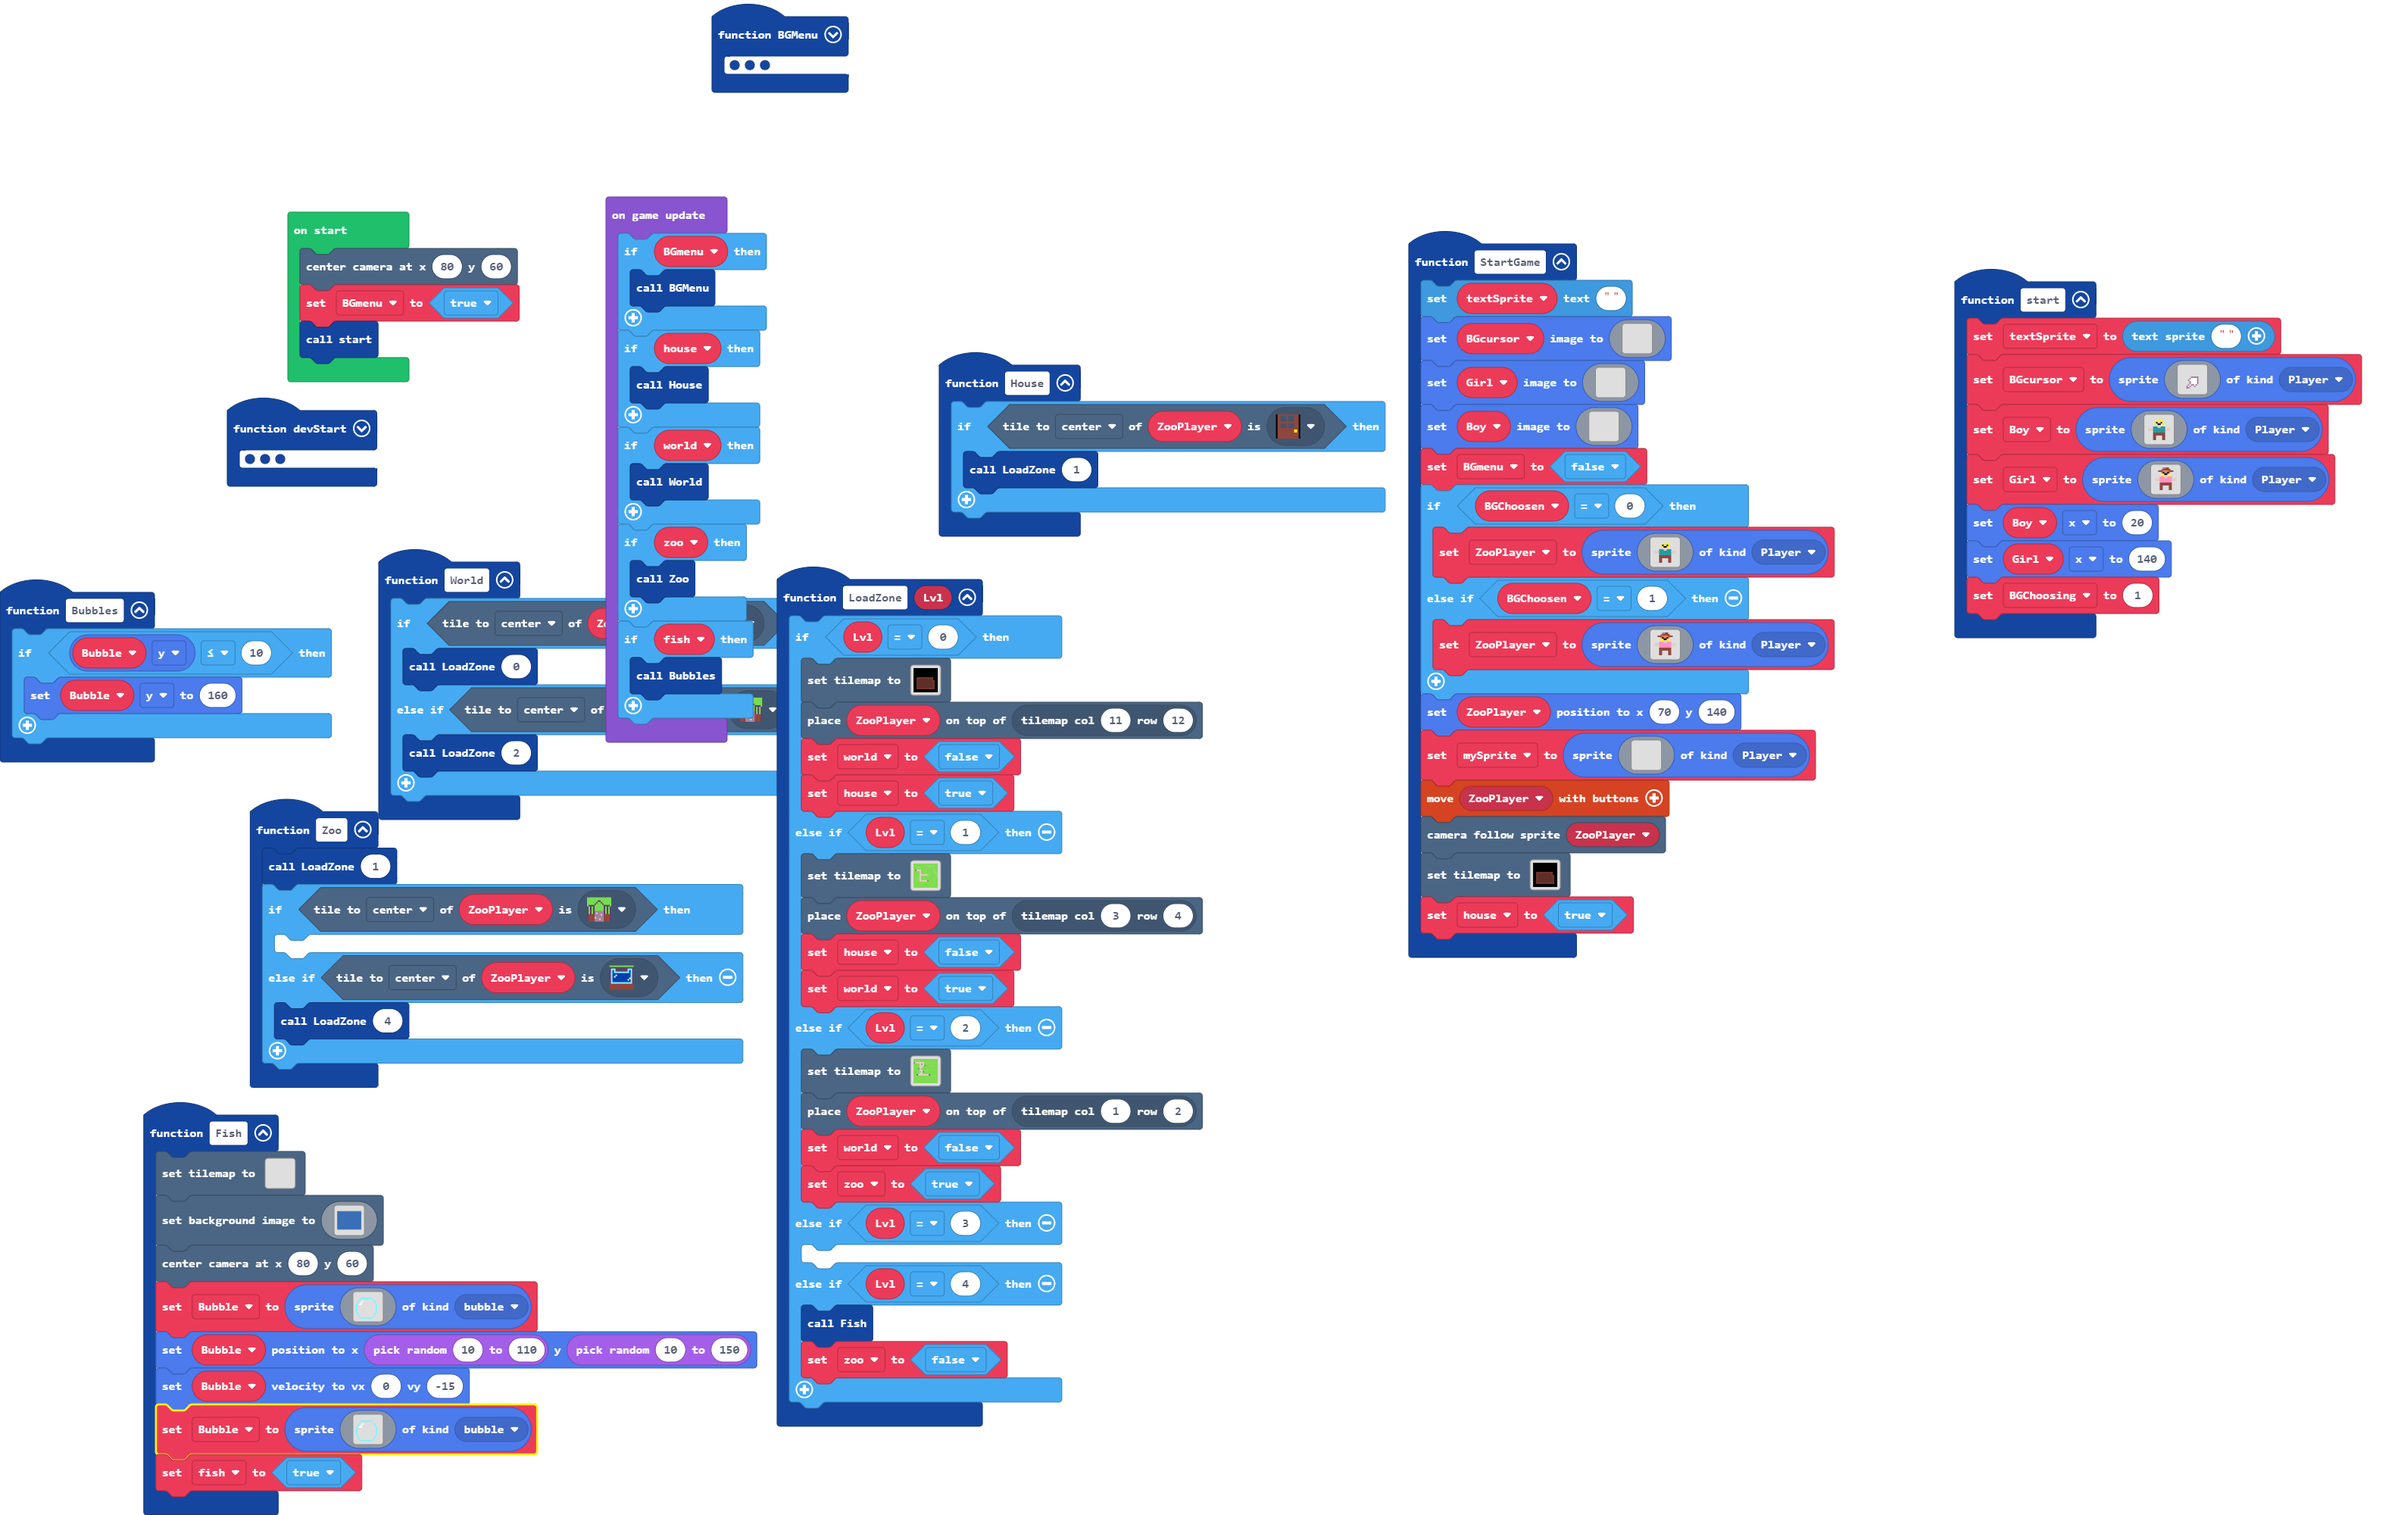
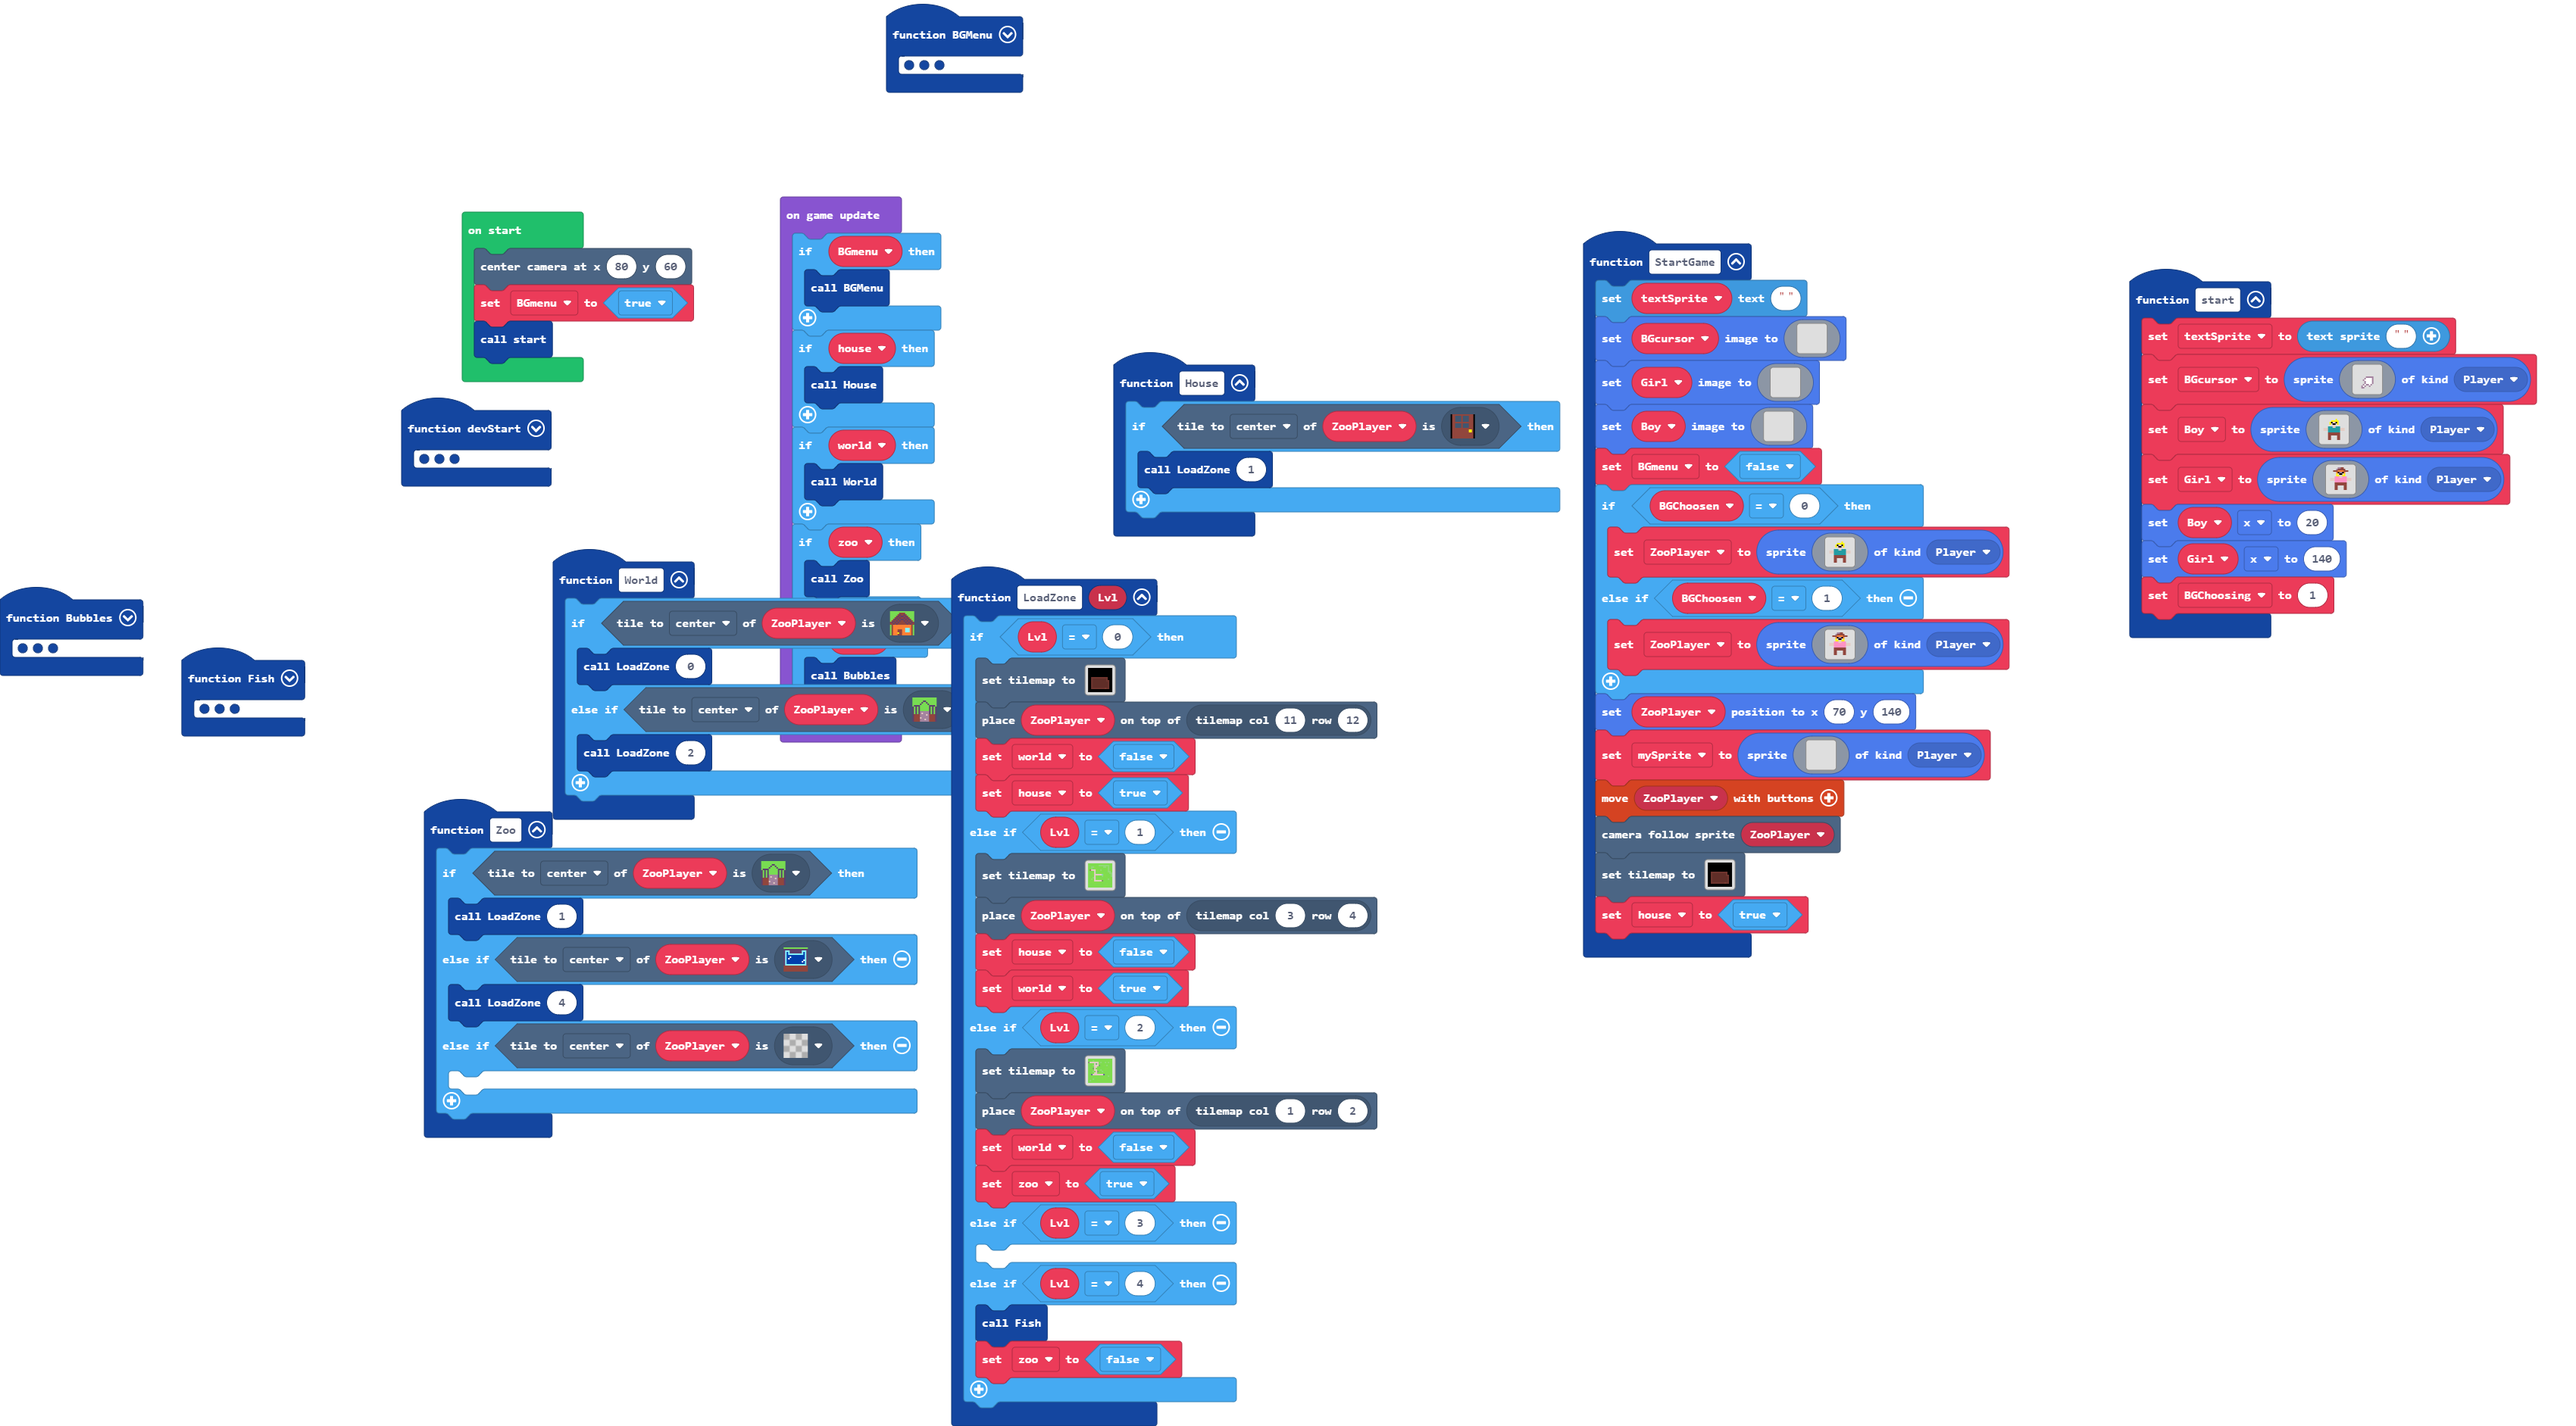
Update main.blocks, main.ts, tilemap.g.jres, tilemap.g.ts, images.g.jres, images.g.ts

diff --git a/main.ts b/main.ts
@@ -10,11 +10,26 @@ function World () {
 }
 function Bubbles () {
     if (Bubble.y <= 10) {
-        Bubble.y = 160
+        Bubble.y = randint(130, 160)
+        Bubble.x = randint(0, 120)
+    } else if (Bubble1.y <= 10) {
+        Bubble1.y = randint(130, 160)
+        Bubble1.x = randint(0, 120)
+    } else if (Bubble2.y <= 10) {
+        Bubble2.y = randint(130, 160)
+        Bubble2.x = randint(0, 120)
+    } else if (Bubble3.y <= 10) {
+        Bubble3.y = randint(130, 160)
+        Bubble3.x = randint(0, 120)
+    }
+    if (ZooFish1.isHittingTile(CollisionDirection.Right)) {
+        ZooFish1.setImage(assets.image`myImage1`)
+    } else if (ZooFish1.isHittingTile(CollisionDirection.Left)) {
+        ZooFish1.setImage(assets.image`myImage2`)
     }
 }
 function Fish () {
-    tiles.setTilemap(tilemap`level7`)
+    tiles.setTilemap(tilemap`level8`)
     scene.setBackgroundImage(img`
         8888888888888888888888888888888888888888888888888888888888888888888888888888888888888888888888888888888888888888888888888888888888888888888888888888888888888888
         8888888888888888888888888888888888888888888888888888888888888888888888888888888888888888888888888888888888888888888888888888888888888888888888888888888888888888
@@ -158,7 +173,7 @@ function Fish () {
         `, SpriteKind.bubble)
     Bubble.setPosition(randint(10, 110), randint(10, 150))
     Bubble.setVelocity(0, -15)
-    Bubble = sprites.create(img`
+    Bubble1 = sprites.create(img`
         . . . . . . . . . . . . . . . . 
         . . . . . . . . . . . . . . . . 
         . . . 9 9 9 9 9 9 9 9 . . . . . 
@@ -176,7 +191,53 @@ function Fish () {
         . . 9 . . . . . . . . 9 . . . . 
         . . . 9 9 9 9 9 9 9 9 . . . . . 
         `, SpriteKind.bubble)
+    Bubble1.setPosition(randint(10, 110), randint(10, 150))
+    Bubble1.setVelocity(0, -15)
+    Bubble2 = sprites.create(img`
+        . . . . . . . . . . . . . . . . 
+        . . . . . . . . . . . . . . . . 
+        . . . 9 9 9 9 9 9 9 9 . . . . . 
+        . . 9 . . . . . . . . 9 . . . . 
+        . 9 . . 1 . . . . . . . 9 . . . 
+        . 9 . 1 . . . . . . . . 9 . . . 
+        9 . 1 1 . . . . . . . . . 9 . . 
+        9 . . . . . . . . . . . . 9 . . 
+        9 . . . . . . . . . . . . 9 . . 
+        9 . . . . . . . . . . . . 9 . . 
+        9 . . . . . . . . . . . . 9 . . 
+        9 . . . . . . . . . . . . 9 . . 
+        . 9 . . . . . . . . . . 9 . . . 
+        . 9 . . . . . . . . . . 9 . . . 
+        . . 9 . . . . . . . . 9 . . . . 
+        . . . 9 9 9 9 9 9 9 9 . . . . . 
+        `, SpriteKind.bubble)
+    Bubble2.setPosition(randint(10, 110), randint(10, 150))
+    Bubble2.setVelocity(0, -15)
+    Bubble3 = sprites.create(img`
+        . . . . . . . . . . . . . . . . 
+        . . . . . . . . . . . . . . . . 
+        . . . 9 9 9 9 9 9 9 9 . . . . . 
+        . . 9 . . . . . . . . 9 . . . . 
+        . 9 . . 1 . . . . . . . 9 . . . 
+        . 9 . 1 . . . . . . . . 9 . . . 
+        9 . 1 1 . . . . . . . . . 9 . . 
+        9 . . . . . . . . . . . . 9 . . 
+        9 . . . . . . . . . . . . 9 . . 
+        9 . . . . . . . . . . . . 9 . . 
+        9 . . . . . . . . . . . . 9 . . 
+        9 . . . . . . . . . . . . 9 . . 
+        . 9 . . . . . . . . . . 9 . . . 
+        . 9 . . . . . . . . . . 9 . . . 
+        . . 9 . . . . . . . . 9 . . . . 
+        . . . 9 9 9 9 9 9 9 9 . . . . . 
+        `, SpriteKind.bubble)
+    Bubble3.setPosition(randint(10, 110), randint(10, 150))
+    Bubble3.setVelocity(0, -15)
     fish = true
+    ZooFish1 = sprites.create(assets.image`myImage2`, SpriteKind.Player)
+    ZooFish1.y = randint(0, 160)
+    ZooFish1.setVelocity(50, 0)
+    ZooFish1.setBounceOnWall(true)
 }
 function House () {
     if (ZooPlayer.tileKindAt(TileDirection.Center, assets.tile`myTile12`)) {
@@ -216,11 +277,12 @@ function BGMenu () {
     }
 }
 function Zoo () {
-    LoadZone(1)
     if (ZooPlayer.tileKindAt(TileDirection.Center, assets.tile`myTile1`)) {
-    	
+        LoadZone(1)
     } else if (ZooPlayer.tileKindAt(TileDirection.Center, assets.tile`myTile6`)) {
         LoadZone(4)
+    } else if (ZooPlayer.tileKindAt(TileDirection.Center, assets.tile`transparency16`)) {
+    	
     }
 }
 function StartGame () {
@@ -424,6 +486,10 @@ let Boy: Sprite = null
 let BGcursor: Sprite = null
 let BGChoosing = 0
 let fish = false
+let ZooFish1: Sprite = null
+let Bubble3: Sprite = null
+let Bubble2: Sprite = null
+let Bubble1: Sprite = null
 let Bubble: Sprite = null
 let ZooPlayer: Sprite = null
 let BGmenu = false

diff --git a/tilemap.g.ts b/tilemap.g.ts
@@ -166,6 +166,44 @@ namespace myTiles {
 . . . . . . . . . . . . . . . . 
 . . . . . . . . . . . . . . . . 
 `, [myTiles.transparency16], TileScale.Sixteen);
+            case "level9":
+            case "level9":return tiles.createTilemap(hex`1000100000000000000000000000000000000000000000000000000000000000000000000000000000000000000000000000000000000000000000000000000000000000000000000000000000000000000000000000000000000000000000000000000000000000000000000000000000000000000000000000000000000000000000000000000000000000000000000000000000000000000000000000000000000000000000000000000000000000000000000000000000000000000000000000000000000000000000000000000000000000000000000000000000000000000000000000000000000000000000000000000000000000000000000000000000000000`, img`
+. . . . . . . . . . . . . . . . 
+. . . . . . . . . . . . . . . . 
+. . . . . . . . . . . . . . . . 
+. . . . . . . . . . . . . . . . 
+. . . . . . . . . . . . . . . . 
+. . . . . . . . . . . . . . . . 
+. . . . . . . . . . . . . . . . 
+. . . . . . . . . . . . . . . . 
+. . . . . . . . . . . . . . . . 
+. . . . . . . . . . . . . . . . 
+. . . . . . . . . . . . . . . . 
+. . . . . . . . . . . . . . . . 
+. . . . . . . . . . . . . . . . 
+. . . . . . . . . . . . . . . . 
+. . . . . . . . . . . . . . . . 
+. . . . . . . . . . . . . . . . 
+`, [myTiles.transparency16], TileScale.Sixteen);
+            case "level8":
+            case "level8":return tiles.createTilemap(hex`1000100000000000000000000000010000000000000000000000000000000100000000000000000000000000000001000000000000000000000000000000010000000000000000000000000000000100000000000000000000000000000001000000000000000000000000000000010000000000000000000000000000000100000000000000000000000000000001000000000000000000000000000000010000000000000000000000000000000100000000000000000000000000000001000000000000000000000000000000010000000000000000000000000000000100000000000000000000000000000001000000000000000000000000000000010000000000`, img`
+. . . . . . . . . . 2 . . . . . 
+. . . . . . . . . . 2 . . . . . 
+. . . . . . . . . . 2 . . . . . 
+. . . . . . . . . . 2 . . . . . 
+. . . . . . . . . . 2 . . . . . 
+. . . . . . . . . . 2 . . . . . 
+. . . . . . . . . . 2 . . . . . 
+. . . . . . . . . . 2 . . . . . 
+. . . . . . . . . . 2 . . . . . 
+. . . . . . . . . . 2 . . . . . 
+. . . . . . . . . . 2 . . . . . 
+. . . . . . . . . . 2 . . . . . 
+. . . . . . . . . . 2 . . . . . 
+. . . . . . . . . . 2 . . . . . 
+. . . . . . . . . . 2 . . . . . 
+. . . . . . . . . . 2 . . . . . 
+`, [myTiles.transparency16,sprites.castle.tileGrass1], TileScale.Sixteen);
         }
         return null;
     })

diff --git a/images.g.ts b/images.g.ts
@@ -64,6 +64,44 @@ namespace myImages {
             case "mario":return img`
 . 
 `;
+            case "image5":
+            case "myImage1":return img`
+. . . . . . . . . . . . . . . . . . 
+. . . . . . . f f . . . . . . . . . 
+. . . . . . f 4 4 f . . . . . f . . 
+. . . . f f 4 4 4 4 f f . . f 4 f . 
+. . . f 4 4 4 4 4 4 4 4 f f 4 4 4 f 
+. . f 4 4 4 4 4 4 4 1 1 4 4 4 5 5 f 
+. f 4 f 1 4 4 5 4 5 4 1 1 4 5 5 4 f 
+f 4 4 f 1 4 5 5 4 5 4 5 4 4 4 4 4 f 
+f 4 4 4 4 4 5 4 4 5 4 5 4 4 5 5 4 f 
+. f f 4 4 f 4 4 4 4 f 5 4 4 4 5 4 f 
+. f 4 4 4 f 1 4 4 4 5 f 4 4 5 5 4 f 
+. . f 4 4 f 4 4 4 4 4 4 f f 4 5 4 f 
+. . . f f f 4 4 5 4 4 f . . f 4 f . 
+. . . . . f 4 4 5 4 4 f . . . f . . 
+. . . . . f 4 4 4 4 f . . . . . . . 
+. . . . . . f f f f . . . . . . . . 
+`;
+            case "image6":
+            case "myImage2":return img`
+. . . . . . . . . . . . . . . . . . 
+. . . . . . . . . f f . . . . . . . 
+. . f . . . . . f 4 4 f . . . . . . 
+. f 4 f . . f f 4 4 4 4 f f . . . . 
+f 4 4 4 f f 4 4 4 4 4 4 4 4 f . . . 
+f 5 5 4 4 4 1 1 4 4 4 4 4 4 4 f . . 
+f 4 5 5 4 1 1 4 5 4 5 4 4 1 f 4 f . 
+f 4 4 4 4 4 5 4 5 4 5 5 4 1 f 4 4 f 
+f 4 5 5 4 4 5 4 5 4 4 5 4 4 4 4 4 f 
+f 4 5 4 4 4 5 f 4 4 4 4 f 4 4 f f . 
+f 4 5 5 4 4 f 5 4 4 4 1 f 4 4 4 f . 
+f 4 5 4 f f 4 4 4 4 4 4 f 4 4 f . . 
+. f 4 f . . f 4 4 5 4 4 f f f . . . 
+. . f . . . f 4 4 5 4 4 f . . . . . 
+. . . . . . . f 4 4 4 4 f . . . . . 
+. . . . . . . . f f f f . . . . . . 
+`;
         }
         return null;
     })
